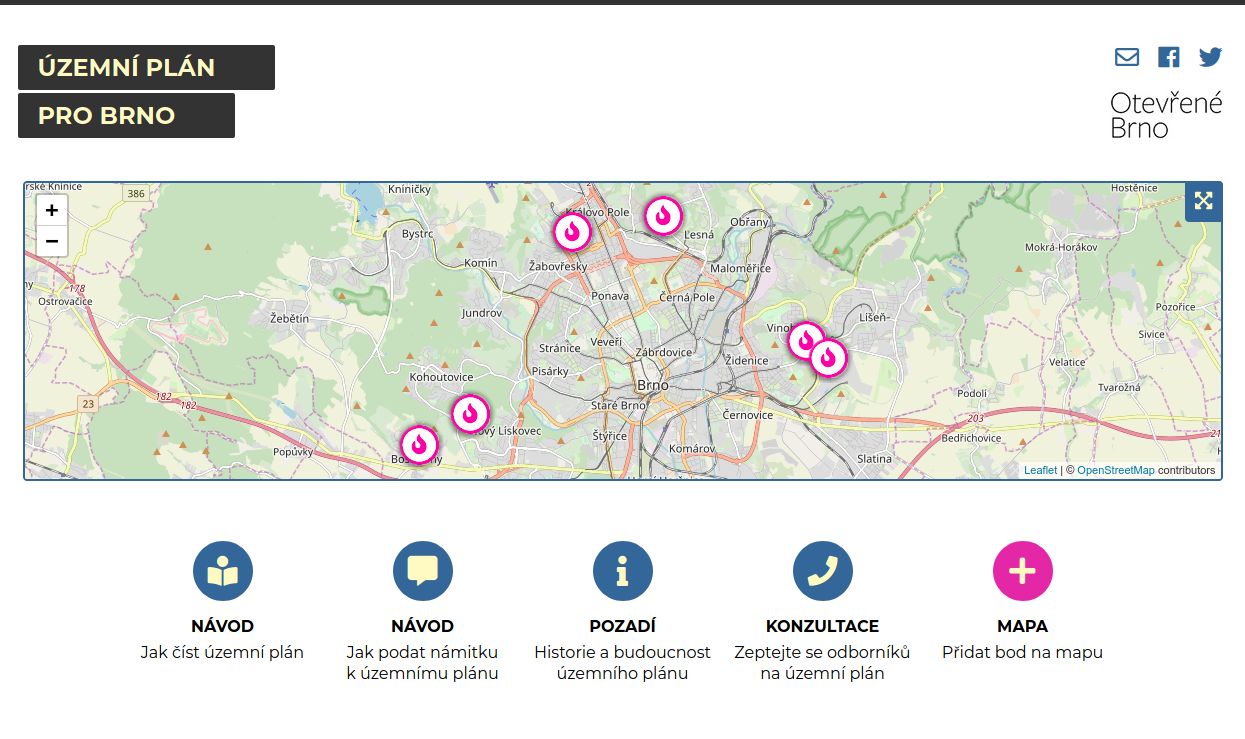
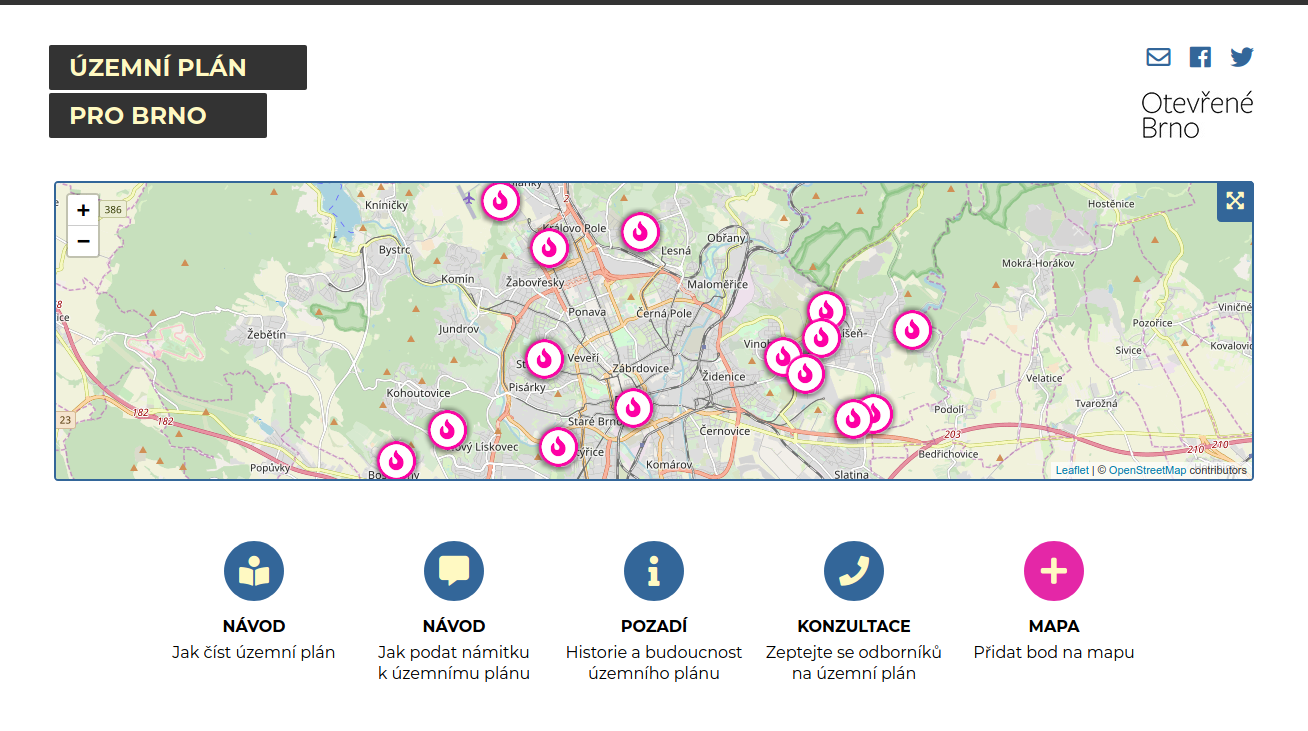
drobnosti

diff --git a/website/hotspots/trasovani-silnice-o-6.md b/website/hotspots/trasovani-silnice-o-6.md
@@ -1,0 +1,10 @@
+---
+latlon: [49.2371734331184, 16.566781997680668]
+title: "Trasování silnice O-6"
+blurb: ""
+---
+
+**Příspěvek od Barbory Valtrové:**
+
+> Trasování silnice I. třídy O-6 mezi Medláneckými kopci směrem k ulici Turistická.
+Mělo by jít o necelý jeden kilometr dlouhé propojení mezi ulicí Purkyňova a Medlánkami prý k odlehčení dopravním tahům v Medlánkách. V pohledu spousty lidí extrémně problematické, jelikož je o zásah do zřejmě největší rekreační oblasti v okolí.

diff --git a/website/formdump/2020-03-26-13-32-35-078-mapa.md b/website/formdump/2020-03-26-13-32-35-078-mapa.md
@@ -1,0 +1,9 @@
+---
+name: Barbora Valtrová
+email: ingo@parkpurkynova.cz
+latlon: [49.2371734331184, 16.566781997680668]
+---
+
+Trasování silnice I. třídy O-6 mezi Medláneckými kopci směrem k ulici Turistická.
+Mělo by jít o necelý jeden kilometr dlouhé propojení mezi ulicí Purkyňova a Medlánkami prý k odlehčení dopravním tahům v Medlánkách. V pohledu spousty lidí extrémně problematické, jelikož je o zásah do zřejmě největší rekreační oblasti v okolí. 
+ 
